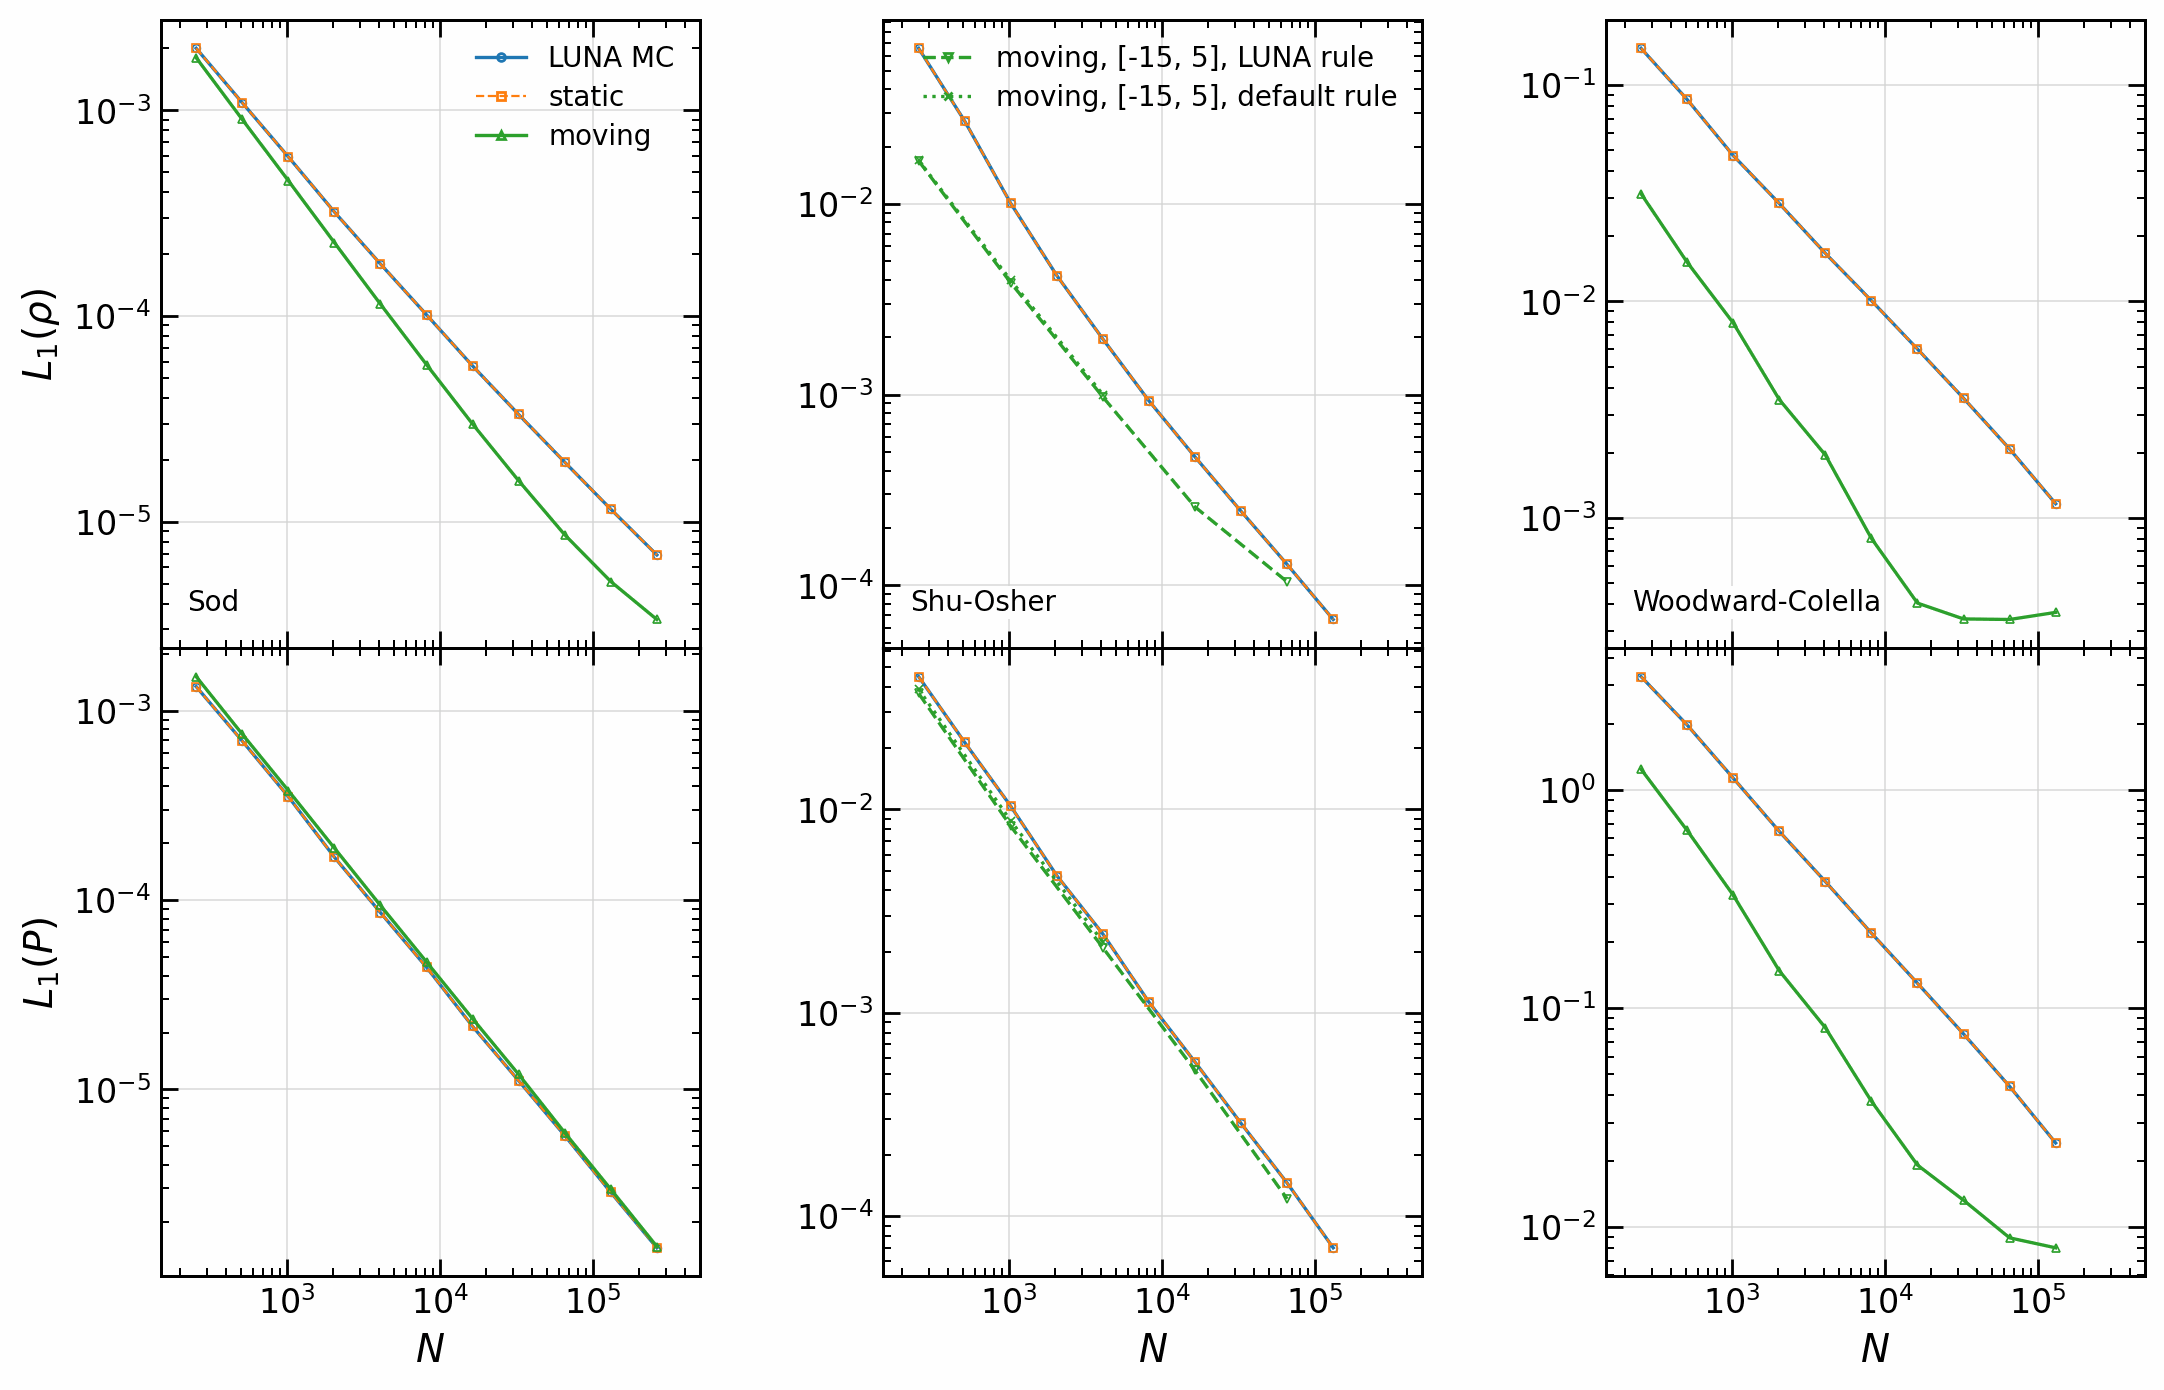
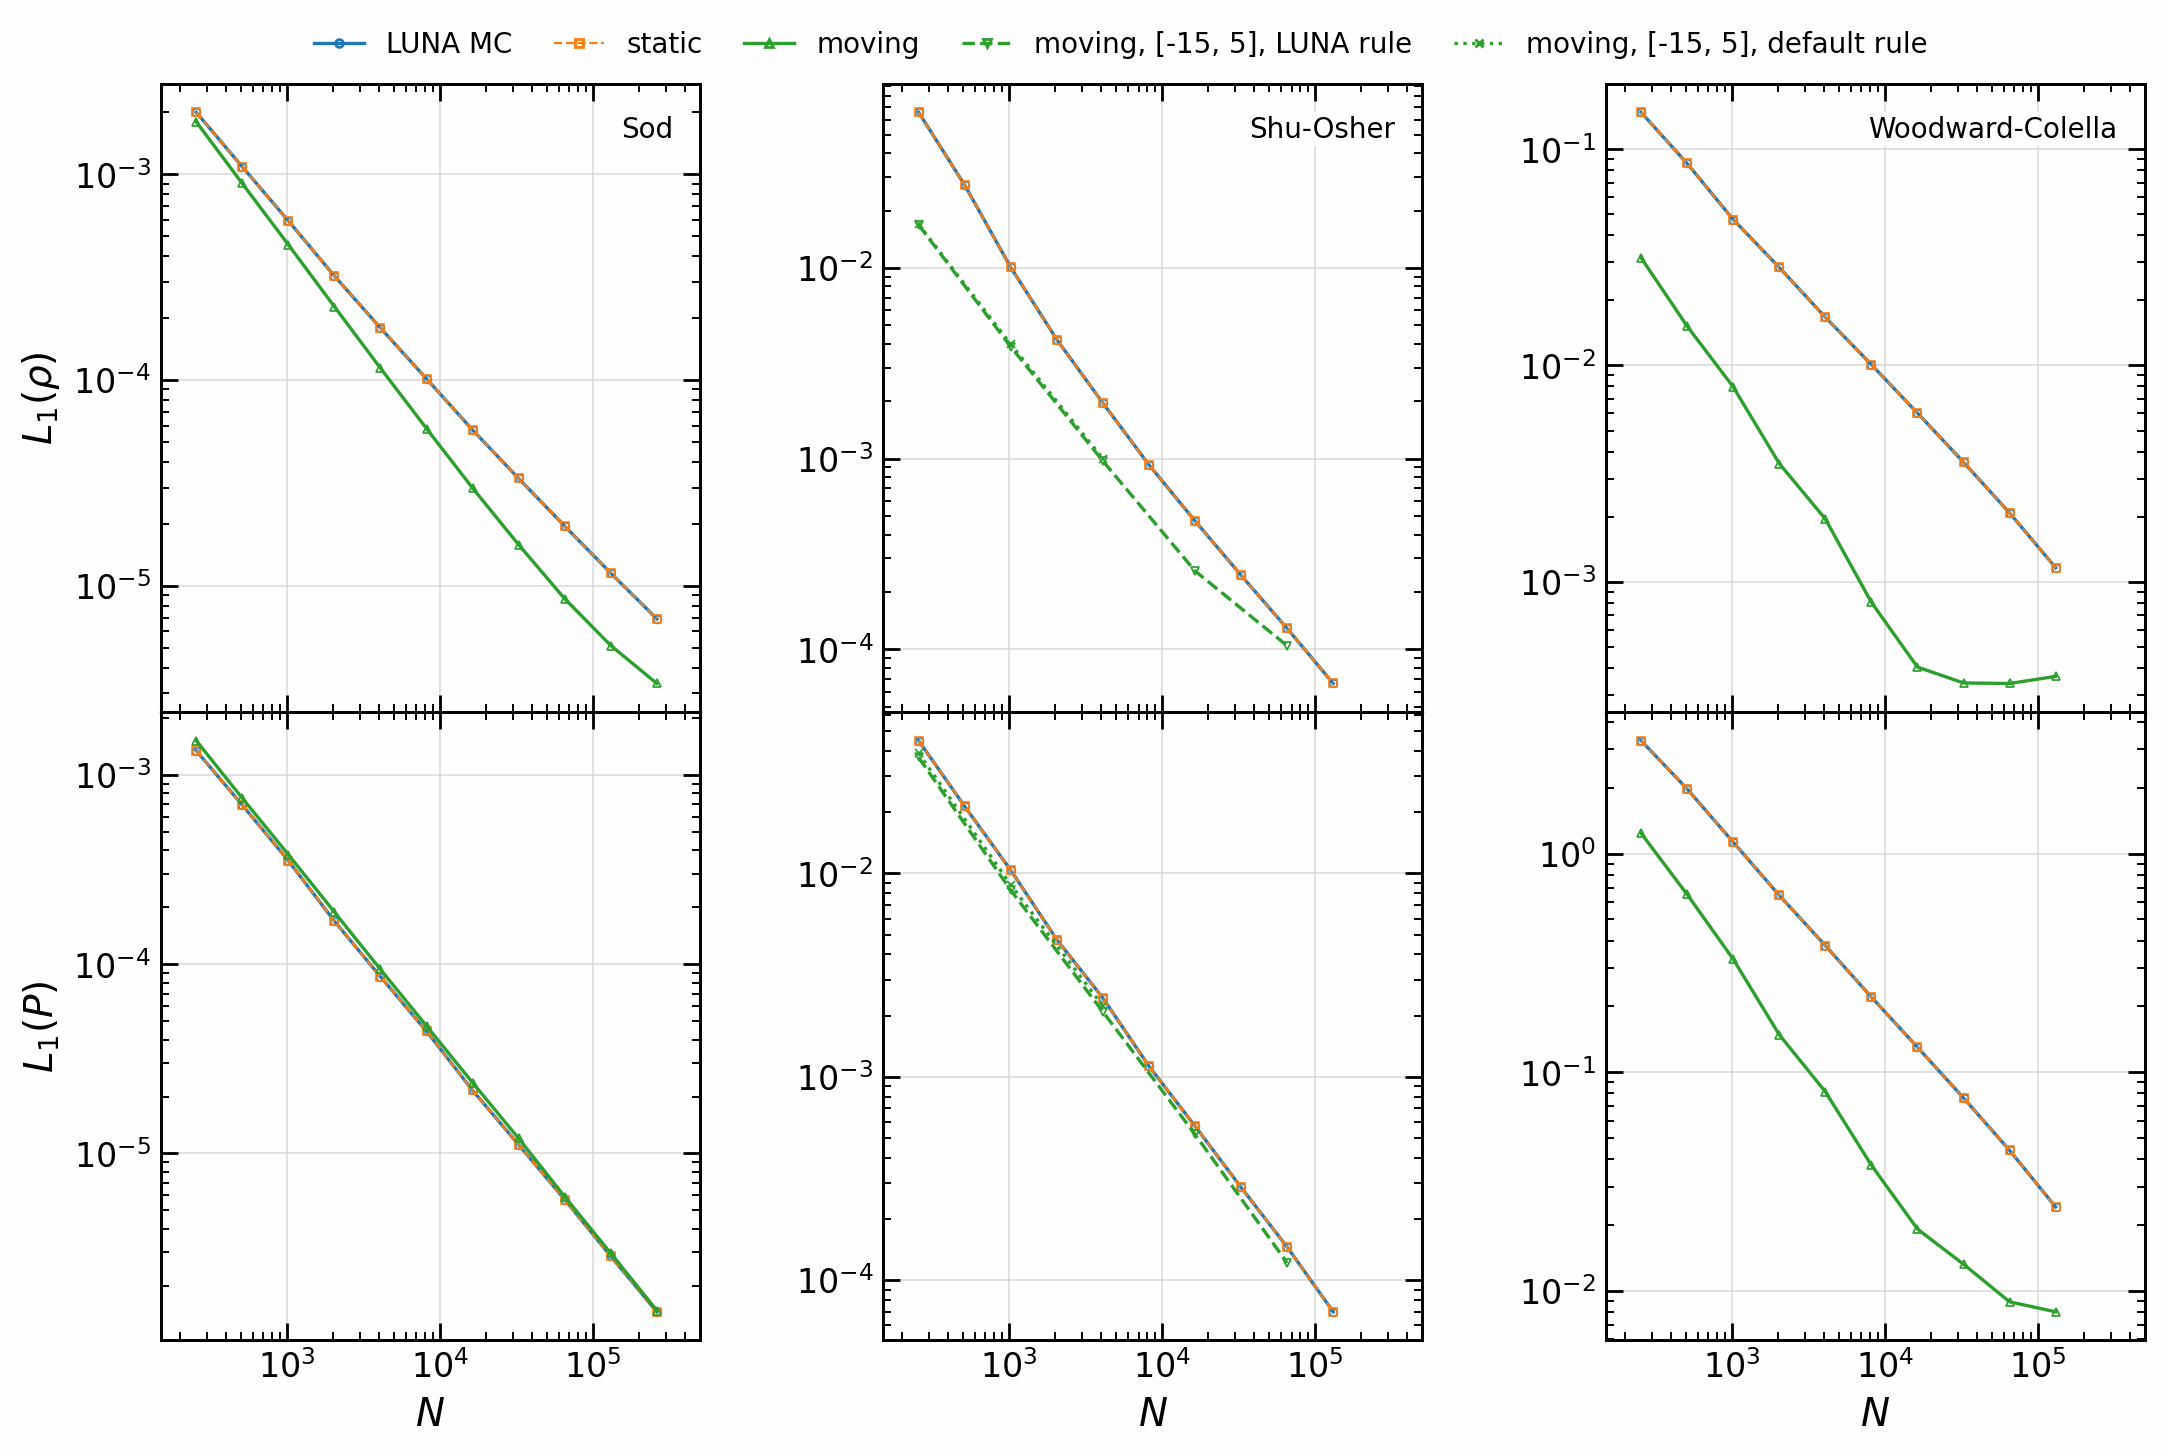
Figures: legends clear of the curves, checked in make_figures.py; throughput_scaling from make_figures.py in figstyle colours

diff --git a/scripts/make_figures.py b/scripts/make_figures.py
@@ -8,6 +8,9 @@ Data paths, each an environment variable, none of them in this repository:
     VORONOI_RUNS               voronoi-cpp checkout with the build-* run directories
     LUNA_REFERENCE_SOLUTIONS   luna-reference-solutions at 99a52d0 (sha256 checked against its MANIFEST.json)
     LUNA_CPP_FIGURES           output directory, default docs/figures next to this script's parent
+
+Every figure is checked before it is written: a legend or panel label on plotted data, or a legend on a zoom box, stops the
+script with a non-zero exit after all figures have been tried.
 """
 import glob
 import hashlib
@@ -15,12 +18,15 @@ import importlib.util
 import json
 import os
 import re
+import statistics
 import sys
+from collections import defaultdict
 
 import h5py
 import matplotlib
 import matplotlib.ticker
 import numpy as np
+from matplotlib.path import Path
 from matplotlib.patches import ConnectionPatch, Rectangle
 from PIL import Image
 
@@ -43,6 +49,7 @@ KH = f"{RUNS}/build-2d/runs/kh_table.md"
 SEDOV = f"{RUNS}/build-limiters/sedov"
 SEDOV_L1 = f"{RUNS}/build-limiters/sedov_l1.json"
 SEDOV_LADDER = f"{RUNS}/build-metric"
+SCALING = f"{RUNS}/build-roofline/logs/roof-31928911.out"  # scripts/roofline_a100.sh on branch roofline, job 31928911
 
 spec = importlib.util.spec_from_file_location("compare_1d", f"{HERE}/compare_1d.py")
 cmp1d = importlib.util.module_from_spec(spec)
@@ -63,6 +70,8 @@ MS = 2.8      # open markers
 LABEL = 10    # letters and labels inside panels, as in LUNA's figures
 EDGE = "0.65"  # connectors
 CONNECTORS = []  # of the figure being drawn, figure coordinates
+TEXTS, BOXES = [], []  # panel labels and box letters, zoom boxes, of the figure being drawn
+FAILED = []  # (figure, what) of every overlap
 WIDTH = FIGSIZE[0] * 2  # every figure
 LEGEND = dict(loc="upper right", fontsize=LABEL)
 
@@ -72,12 +81,33 @@ def save(fig, name):
     path = f"{OUT}/{name}.png"
     for ax in fig.axes:
         decorate(ax)
-        for child in ax.child_axes:
-            decorate(child)
+    overlaps(fig, name)
     fig.savefig(path)
     plt.close(fig)
     Image.open(path).convert("RGB").quantize(256, method=Image.Quantize.FASTOCTREE, dither=Image.Dither.NONE).save(path, optimize=True)
     print(f"{path} {os.path.getsize(path) / 1024:.0f} kB, connectors crossing: {crossings()}")
+
+
+def overlaps(fig, name):
+    """Legends and labels against the plotted lines (targets and floors included), legends also against the zoom boxes."""
+    fig.canvas.draw()
+    legends = [("legend", leg.get_window_extent()) for leg in [ax.get_legend() for ax in fig.axes] + fig.legends if leg]
+    labels = [(t.get_text(), t.get_window_extent()) for t in TEXTS]
+    paths = []
+    for ax in fig.axes:
+        for ln in ax.get_lines():
+            xy = ln.get_transform().transform(np.ma.filled(np.ma.array(ln.get_xydata(), dtype=float), np.nan))
+            xy = xy[np.isfinite(xy).all(axis=1)]
+            if len(xy) > 1 and ln.get_linestyle() != "None":
+                paths.append((ax.get_window_extent(), Path(xy)))
+    for what, box in legends + labels:
+        if any(area.overlaps(box) and path.intersects_bbox(box, filled=False) for area, path in paths):
+            FAILED.append((name, what))
+    for what, box in legends:
+        if any(r.get_window_extent().overlaps(box) for r in BOXES):
+            FAILED.append((name, f"{what} on a zoom box"))
+    TEXTS.clear()
+    BOXES.clear()
 
 
 def line(ax, x, y, s, **over):
@@ -94,7 +124,7 @@ def cells(ax, x, y, s, xlim, most=32):
 
 
 def corner(ax, text, x=0.04, y=0.95, ha="left", va="top"):
-    ax.text(x, y, text, transform=ax.transAxes, va=va, ha=ha, fontsize=LABEL, bbox=dict(fc="white", ec="none", pad=1.0), zorder=6)
+    TEXTS.append(ax.text(x, y, text, transform=ax.transAxes, va=va, ha=ha, fontsize=LABEL, bbox=dict(fc="white", ec="none", pad=1.0), zorder=6))
 
 
 def key(s, label, marker=False):
@@ -259,8 +289,8 @@ def crossings():
 
 def mark(main, xlim, ylim, letter):
     """A thin light box round a zoom's region, with the zoom's letter."""
-    main.add_patch(Rectangle((xlim[0], ylim[0]), xlim[1] - xlim[0], ylim[1] - ylim[0], fill=False, ec="0.5", lw=0.5, zorder=5))
-    main.text(0.5 * (xlim[0] + xlim[1]), ylim[1], letter, ha="center", va="bottom", fontsize=LABEL)
+    BOXES.append(main.add_patch(Rectangle((xlim[0], ylim[0]), xlim[1] - xlim[0], ylim[1] - ylim[0], fill=False, ec="0.5", lw=0.5, zorder=5)))
+    TEXTS.append(main.text(0.5 * (xlim[0] + xlim[1]), ylim[1], letter, ha="center", va="bottom", fontsize=LABEL))
 
 
 def fig_sod():
@@ -373,6 +403,12 @@ PROBLEMS = (("sod", "Sod"), ("shu-osher", "Shu-Osher"), ("woodward-colella", "Wo
 ROWS = ((0, r"$L_1(\rho)$"), (2, r"$L_1(P)$"))
 
 
+def grid_legend(fig, axes, handles):
+    """One legend above a grid of panels."""
+    fig.legend(handles=handles, loc="lower center", bbox_to_anchor=(0.5, axes[0, 0].get_position().y1), ncol=len(handles), fontsize=LABEL,
+               columnspacing=1.5)
+
+
 def fig_convergence():
     rows = report()
     wide = wide_rule_l1()
@@ -396,9 +432,9 @@ def fig_convergence():
             if i == 1:
                 ax.set_xlabel(r"$N$")
             ax.set_xlim(150, 5e5)
-        corner(axes[0, j], title, 0.05, 0.05, va="bottom")
-    axes[0, 0].legend(handles=[key("luna", "LUNA MC", True), key("static", "static", True), key("moving", "moving", True)], **LEGEND)
-    axes[0, 1].legend(handles=[key("padded", "moving, [-15, 5], LUNA rule", True), key("padded3", "moving, [-15, 5], default rule", True)], **LEGEND)
+        corner(axes[0, j], title, 0.95, 0.95, "right")
+    grid_legend(fig, axes, [key("luna", "LUNA MC", True), key("static", "static", True), key("moving", "moving", True),
+                            key("padded", "moving, [-15, 5], LUNA rule", True), key("padded3", "moving, [-15, 5], default rule", True)])
     save(fig, "convergence_1d")
 
 
@@ -421,8 +457,8 @@ def fig_time():
             if i == 1:
                 ax.set_xlabel(r"GPU time (s)")
             ax.set_xlim(4e-3, 6e2)
-        corner(axes[0, j], title, 0.05, 0.05, va="bottom")
-    axes[0, 0].legend(handles=[key("luna", "LUNA MC", True), key("static", "static", True), key("moving", "moving", True)], **LEGEND)
+        corner(axes[0, j], title, 0.95, 0.95, "right")
+    grid_legend(fig, axes, [key("luna", "LUNA MC", True), key("static", "static", True), key("moving", "moving", True)])
     save(fig, "time_to_target_1d")
 
 
@@ -528,13 +564,73 @@ def fig_sedov():
     save(fig, "sedov_3d")
 
 
+def scaling_log():
+    """Medians by side of the scaling job: ours {(side, mesh): dict}, LUNA {side: throughput of each round, peak MB}."""
+    ours, luna = defaultdict(list), defaultdict(list)
+    memory = {}
+    for block in re.split(r"^== ", open(SCALING).read(), flags=re.M)[1:]:
+        head = block.split("\n")[0].split()
+        if head[0] == "ours":
+            mesh = "static" if head[2] == "static" else head[3].split("=")[1]
+            row = lambda start: next(text for text in block.split("\n") if text.startswith(start))  # noqa: E731
+            speed = dict(re.findall(r"(\w+)=([\d.e+-]+)", row("throughput")))
+            phase = dict(re.findall(r"(\w+)=([\d.e+-]+)", row("phases")))
+            n = int(re.search(r"mesh: n=(\d+)", block)[1])
+            mem = re.search(r"peak_MB=([\d.]+).*gpu_used_MB=([\d.]+)", row("memory: phase=steps"))
+            ours[int(head[1]), mesh].append(dict(n=n, faces=int(re.search(r"faces=(\d+)", block)[1]), hydro=float(speed["hydro"]), step=float(speed["step"]),
+                                                 mesh=n / (float(phase["mesh"]) + float(phase["cells"]) + float(phase["drift"]) or 1) * 1e-3 if mesh != "static" else 0,
+                                                 views_MB=float(mem[1]), gpu_MB=float(mem[2])))
+        elif head[0] == "luna":
+            perf = [float(x) for x in re.findall(r"perf = ([\d.]+) Mcells", block)]
+            if perf:
+                luna[int(head[1])].append(statistics.median(perf))
+                memory[int(head[1])] = 1e3 * float(re.findall(r"mem = ([\d.]+) GB", block)[-1])
+    return {k: {f: statistics.median(r[f] for r in rows) for f in rows[0]} for k, rows in ours.items()}, luna, memory
+
+
+def fig_throughput():
+    ours, luna, memory = scaling_log()
+    sides = sorted(k for k in {k[0] for k in ours} if k >= 32)
+    x = [ours[s, "static"]["n"] for s in sides]
+    fig, (top, low) = plt.subplots(2, 1, figsize=(WIDTH, FIGSIZE[1] * 1.45), sharex=True, gridspec_kw=dict(height_ratios=(3, 1.25), hspace=0))
+    style = dict(lw=LW, ms=MS + 1, mew=0.8, mfc="none")
+    curves = (("static", "hydro", STATIC_C, "-", "s", "hydro, static"), ("two-pass", "hydro", MOVING_C, ":", "^", "hydro, two passes"),
+              ("two-pass", "mesh", "0.5", "-", "v", "mesh only"), ("one-pass", "step", MOVING_C, "--", "o", "whole moving step, one pass"),
+              ("two-pass", "step", MOVING_C, "-", "D", "whole moving step, two passes"))
+    for mesh, field, color, ls, marker, label in curves:
+        top.loglog(x, [ours[s, mesh][field] / 1e3 for s in sides], color=color, ls=ls, marker=marker, label=label, **style)
+    shown = [s for s in sorted(luna) if s >= 32]
+    top.loglog([s ** 3 for s in shown], [statistics.median(luna[s]) / 1e3 for s in shown], color=LUNA_C, marker="o", label="LUNA (MC, Pallas), median", **style)
+    top.set_ylabel("G cell updates/s")
+    top.set_ylim(top=3)
+    corner(top, f"1 cell update = {ours[256, 'static']['faces'] / ours[256, 'static']['n']:.2f} face updates", 0.97, 0.95, "right")
+    # From the DRAM bytes per cell by size (research note of branch roofline): all in L2 at 24^3, all in DRAM at 48^3.
+    for ax in (top, low):
+        ax.axvspan(24 ** 3, 48 ** 3, color="0.90", lw=0, zorder=0)
+    TEXTS.append(top.text(32 ** 3, 1.1, "L2 to DRAM", ha="center", fontsize=LABEL))
+    top.legend(loc="lower left", bbox_to_anchor=(0, 1.01), ncol=3, fontsize=LABEL, borderaxespad=0, columnspacing=1.5)
+    low.loglog(x, [ours[s, "two-pass"]["gpu_MB"] / 1e3 for s in sides], color=MOVING_C, marker="D", label="ours, two passes, GPU in use", **style)
+    low.loglog(x, [ours[s, "two-pass"]["views_MB"] / 1e3 for s in sides], color=MOVING_C, ls="--", marker="D", label="ours, Kokkos views", **style)
+    kept = [s for s in shown if memory[s] >= 10]  # LUNA prints two decimals of a GB
+    low.loglog([s ** 3 for s in kept], [memory[s] / 1e3 for s in kept], color=LUNA_C, marker="o", label="LUNA, reported", **style)
+    low.axhline(42.4, color="0.6", lw=0.8, ls=":")  # the A100's memory
+    low.set_ylabel("peak GB")
+    low.set_xlabel("cells")
+    low.set_xticks([s ** 3 for s in sides], [f"${s}^3$" for s in sides])
+    low.set_ylim(0.004, 40000)
+    low.legend(loc="upper left", ncol=3, fontsize=LABEL, columnspacing=1.5)
+    save(fig, "throughput_scaling")
+
+
 FIGURES = {"sod": fig_sod, "shu_osher": fig_shu_osher, "woodward_colella": fig_woodward_colella, "convergence_1d": fig_convergence,
-           "time_to_target_1d": fig_time, "vortex_3d": fig_vortex, "kh_2d": fig_kh, "sedov_3d": fig_sedov}
+           "time_to_target_1d": fig_time, "vortex_3d": fig_vortex, "kh_2d": fig_kh, "sedov_3d": fig_sedov, "throughput_scaling": fig_throughput}
 
 
 def main():
     for name in sys.argv[1:] or list(FIGURES):
         FIGURES[name]()
+    if FAILED:
+        raise SystemExit("overlaps: " + "; ".join(f"{name}: {what}" for name, what in FAILED))
 
 
 if __name__ == "__main__":
